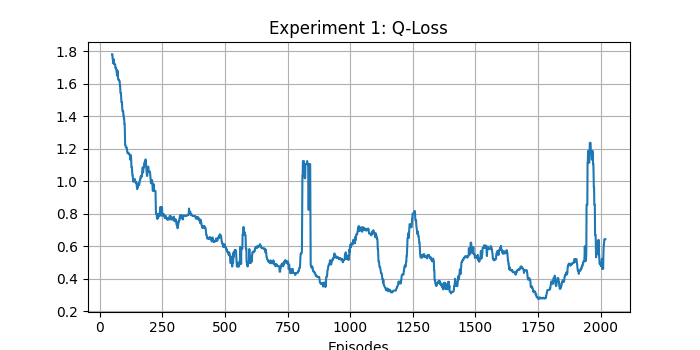
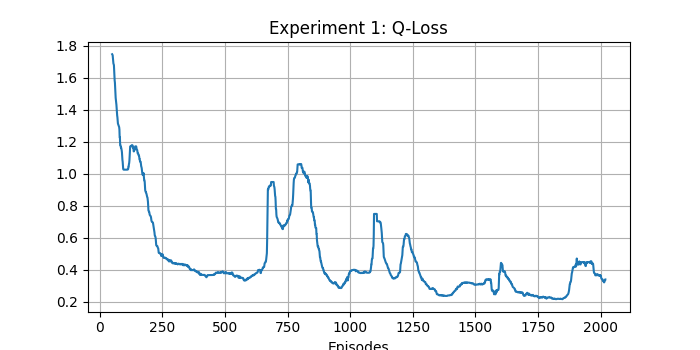
new reward function

diff --git a/utils/rewards.py b/utils/rewards.py
@@ -8,6 +8,7 @@ from envs.market_env.constants import (
     REWARD_TYPE_OPPORTUNITY_COST,
     REWARD_TYPE_SUPPLY_EXPOSURE,
     REWARD_TYPE_OPPORTUNITY_SUPPLY_EXPOSURE,
+    REWARD_TYPE_OPPORTUNITY_SUPPLY,
     REWARD_TYPE_BORROW_EXPOSURE,
     REWARD_TYPE_OPPORTUNITY_BORROW_EXPOSURE,
     REWARD_CONSTANT_OPPORTUNITY_ALPHA,
@@ -18,11 +19,11 @@ from envs.market_env.constants import (
 
 
 def reward_function(
-    agent_id: int,
-    agent_action: Tuple,
-    reward_type: List[Tuple],
-    env,
-    illegal_action: bool,
+        agent_id: int,
+        agent_action: Tuple,
+        reward_type: List[Tuple],
+        env,
+        illegal_action: bool,
 ) -> float:
     """
 
@@ -49,10 +50,10 @@ def reward_function(
 
 
 def reward_function_by_type(
-    agent_id: int,
-    agent_action: Tuple,
-    reward_type: str,
-    env,
+        agent_id: int,
+        agent_action: Tuple,
+        reward_type: str,
+        env,
 ) -> float:
     """
     Supported reward_types:
@@ -81,6 +82,8 @@ def reward_function_by_type(
         return borrow_exposure(env, agent_id, agent_action)
     elif reward_type == REWARD_TYPE_OPPORTUNITY_SUPPLY_EXPOSURE:
         return opportunity_cost_supply_exposure(env, agent_id, agent_action)
+    elif reward_type == REWARD_TYPE_OPPORTUNITY_SUPPLY:
+        return supply_opportunity_cost(env, agent_id, agent_action)
     elif reward_type == REWARD_TYPE_OPPORTUNITY_BORROW_EXPOSURE:
         return opportunity_cost_borrow_exposure(env, agent_id, agent_action)
     else:
@@ -88,8 +91,8 @@ def reward_function_by_type(
 
 
 def protocol_revenue(
-    env,
-    agent_id: int,
+        env,
+        agent_id: int,
 ) -> float:
     """
     Function calculates the lending protocol's revenue by computing the revenue of each plf_pool
@@ -105,8 +108,8 @@ def protocol_revenue(
 
 
 def maximum_exposure(
-    env,
-    agent_id: int,
+        env,
+        agent_id: int,
 ) -> float:
     """
     Function computes the maximum exposure of an agent towards a lending protocol.
@@ -114,15 +117,17 @@ def maximum_exposure(
     """
     total_exposure = 0.0
     for lending_protocol in env.lending_protocol:
-        for agent_id, pool_collateral, pool_loan in list(filter(lambda x: x[0] == agent_id, lending_protocol.borrow_record)):
+        for agent_id, pool_collateral, pool_loan in list(
+                filter(lambda x: x[0] == agent_id, lending_protocol.borrow_record)):
             for borrow_hash, _ in lending_protocol.borrow_record[(agent_id, pool_collateral, pool_loan)]:
-                total_exposure += lending_protocol.plf_pools[pool_loan].get_borrow(borrow_hash) * lending_protocol.plf_pools[pool_loan].get_token_price()
+                total_exposure += lending_protocol.plf_pools[pool_loan].get_borrow(borrow_hash) * \
+                                  lending_protocol.plf_pools[pool_loan].get_token_price()
     return total_exposure
 
 
 def profit(
-    env,
-    agent_id: int,
+        env,
+        agent_id: int,
 ) -> float:
     """
     Function rewards the profit of an agent.
@@ -136,10 +141,10 @@ def profit(
 
 
 def opportunity_cost(
-    env,
-    agent_id: int,
-    alpha: float = REWARD_CONSTANT_OPPORTUNITY_ALPHA,
-    beta: float = REWARD_CONSTANT_OPPORTUNITY_BETA
+        env,
+        agent_id: int,
+        alpha: float = REWARD_CONSTANT_OPPORTUNITY_ALPHA,
+        beta: float = REWARD_CONSTANT_OPPORTUNITY_BETA
 ) -> float:
     """
     Function computes the opportunity cost of the agent's investments.
@@ -151,12 +156,12 @@ def opportunity_cost(
         [token.get_supply_interest_rate() for token in env.market.tokens.values()]
     )
     borrow_pools = (
-        [(pool.borrow_interest_rate, pool.collateral_factor)
-         for lp in env.lending_protocol for pool in lp.plf_pools] +
-        [(token.get_borrow_interest_rate(), token.get_collateral_factor())
-         for token in env.market.tokens.values()]
+            [(pool.borrow_interest_rate, pool.collateral_factor)
+             for lp in env.lending_protocol for pool in lp.plf_pools] +
+            [(token.get_borrow_interest_rate(), token.get_collateral_factor())
+             for token in env.market.tokens.values()]
     )
-    borrow_pools_ratios = [alpha * bir + beta * 1/cf for bir, cf in borrow_pools]
+    borrow_pools_ratios = [alpha * bir + beta * 1 / cf for bir, cf in borrow_pools]
     best_borrow_pool = borrow_pools[borrow_pools_ratios.index(min(borrow_pools_ratios))]
 
     opportunity_value = 0
@@ -169,25 +174,27 @@ def opportunity_cost(
                 opportunity_ratio = lending_protocol.plf_pools[pool_supply].supply_interest_rate - best_supply_pool
                 opportunity_value += supply_amount * supply_price * opportunity_ratio
         # Check for borrow opportunity cost
-        for agent_id, pool_collateral, pool_loan in list(filter(lambda x: x[0] == agent_id, lending_protocol.borrow_record)):
+        for agent_id, pool_collateral, pool_loan in list(
+                filter(lambda x: x[0] == agent_id, lending_protocol.borrow_record)):
             for borrow_hash, borrow_amount in lending_protocol.borrow_record[(agent_id, pool_collateral, pool_loan)]:
                 # borrow_amount = lending_protocol.plf_pools[pool_collateral].get_borrow(borrow_hash)
                 borrow_price = lending_protocol.plf_pools[pool_collateral].get_token_price()
                 ratio = 0
                 if lending_protocol.plf_pools[pool_collateral].collateral_factor - best_borrow_pool[1] != 0:
-                    ratio = 1/(lending_protocol.plf_pools[pool_collateral].collateral_factor - best_borrow_pool[1])
-                opportunity_ratio = alpha * (best_borrow_pool[0] - lending_protocol.plf_pools[pool_collateral].borrow_interest_rate) + \
+                    ratio = 1 / (lending_protocol.plf_pools[pool_collateral].collateral_factor - best_borrow_pool[1])
+                opportunity_ratio = alpha * (
+                            best_borrow_pool[0] - lending_protocol.plf_pools[pool_collateral].borrow_interest_rate) + \
                                     beta * ratio
                 opportunity_value += borrow_amount * borrow_price * opportunity_ratio
     return opportunity_value
 
 
 def supply_exposure(
-    env,
-    agent_id: int,
-    agent_action: Tuple,
-    lending_protocol_id: int = REWARD_CONSTANT_SUPPLY_LP_ID,
-    plf_pool_id: int = REWARD_CONSTANT_SUPPLY_PLF_ID,
+        env,
+        agent_id: int,
+        agent_action: Tuple,
+        lending_protocol_id: int = REWARD_CONSTANT_SUPPLY_LP_ID,
+        plf_pool_id: int = REWARD_CONSTANT_SUPPLY_PLF_ID,
 ) -> float:
     """
     The function rewards the immediate action of the agent by
@@ -210,11 +217,11 @@ def supply_exposure(
 
 
 def borrow_exposure(
-    env,
-    agent_id: int,
-    agent_action: Tuple,
-    lending_protocol_id: int = REWARD_CONSTANT_SUPPLY_LP_ID,
-    plf_pool_id: int = REWARD_CONSTANT_SUPPLY_PLF_ID,
+        env,
+        agent_id: int,
+        agent_action: Tuple,
+        lending_protocol_id: int = REWARD_CONSTANT_SUPPLY_LP_ID,
+        plf_pool_id: int = REWARD_CONSTANT_SUPPLY_PLF_ID,
 ) -> float:
     """
     The function rewards the immediate action of the agent by
@@ -236,11 +243,11 @@ def borrow_exposure(
 
 
 def opportunity_cost_supply_exposure(
-    env,
-    agent_id: int,
-    agent_action: Tuple,
-    lending_protocol_id: int = REWARD_CONSTANT_SUPPLY_LP_ID,
-    plf_pool_id: int = REWARD_CONSTANT_SUPPLY_PLF_ID,
+        env,
+        agent_id: int,
+        agent_action: Tuple,
+        lending_protocol_id: int = REWARD_CONSTANT_SUPPLY_LP_ID,
+        plf_pool_id: int = REWARD_CONSTANT_SUPPLY_PLF_ID,
 ) -> float:
     """
     Function rewards exposure to a specific supply pool of a specific protocol
@@ -251,9 +258,9 @@ def opportunity_cost_supply_exposure(
 
     # Reward is positive, if the agent deposits funds into correct pool
     if not ((action_id == 1 and
-            idx_lp == lending_protocol_id and
-            idx_from is None and
-            idx_to == plf_pool_id) or (action_id == 0)):
+             idx_lp == lending_protocol_id and
+             idx_from is None and
+             idx_to == plf_pool_id) or (action_id == 0)):
         return REWARD_ILLEGAL_ACTION
 
     best_interest_rate = max(
@@ -280,12 +287,42 @@ def opportunity_cost_supply_exposure(
     return plf_pool.get_supply(supply_hash) * plf_pool.get_token_price() * opportunity_diff
 
 
+def supply_opportunity_cost(
+        env,
+        agent_id: int,
+        agent_action: Tuple,
+) -> float:
+    assert len(agent_action) == 4, "Agent type is incorrect!"
+    action_id, idx_lp, idx_from, idx_to = agent_action
+
+    if not (action_id == 0 or action_id == 1):
+        return REWARD_ILLEGAL_ACTION
+
+    best_pool_interest_rate = max([plf_pool.suppy_interest_rate for lp in env.lending_protocol for plf_pool in lp.plf_pools])
+    best_market_interest_rate = max([token.supply_interest_rate for token in env.market.tokens.values()])
+    best_interest_rate = max([best_pool_interest_rate, best_market_interest_rate])
+
+    # If all supply interest rate are lower than the market -> do not supply
+    if best_pool_interest_rate < best_market_interest_rate and action_id == 0:
+        return 100
+
+    # Best interest rate is provided by a pool
+    lending_protocol = env.lending_protocol[idx_lp]
+    plf_pool = lending_protocol.plf_pools[idx_to]
+    opportunity_diff = plf_pool.supply_interest_rate - best_interest_rate
+    supply_hash, _ = lending_protocol.supply_record[agent_id, idx_to][-1]
+    # If the picked lending pool offers the best interest rate -> use borrow exposure instead
+    if opportunity_diff == 0:
+        opportunity_diff = 1
+    return plf_pool.get_supply(supply_hash) * plf_pool.get_token_price() * opportunity_diff
+
+
 def opportunity_cost_borrow_exposure(
-    env,
-    agent_id: int,
-    agent_action: Tuple,
-    lending_protocol_id: int = REWARD_CONSTANT_SUPPLY_LP_ID,
-    plf_pool_id: int = REWARD_CONSTANT_SUPPLY_PLF_ID,
+        env,
+        agent_id: int,
+        agent_action: Tuple,
+        lending_protocol_id: int = REWARD_CONSTANT_SUPPLY_LP_ID,
+        plf_pool_id: int = REWARD_CONSTANT_SUPPLY_PLF_ID,
 ) -> float:
     """
     Function rewards exposure to a specific borrow pool of a specific protocol

diff --git a/analysis/analyze.py b/analysis/analyze.py
@@ -96,7 +96,7 @@ def main(config):
             data=ep_data[:config.episode_length],
             columns=[f'agent{i}/'+s for s in state_mapping]
         )
-        tmp[f'reward/agent_{i}'] = replay_buffer.rew_buffs[i][config.episode_length:2*config.episode_length]
+        tmp[f'reward/agent_{i}'] = replay_buffer.rew_buffs[i][:config.episode_length]
         tmp[f'action/agent_{i}'] = np.argmax(replay_buffer.ac_buffs[i][:config.episode_length], axis=1)
         data_list.append(tmp)
     df = pd.concat(data_list).fillna(0)

diff --git a/envs/market_env/constants.py b/envs/market_env/constants.py
@@ -159,6 +159,7 @@ REWARD_TYPE_COMPOSITE_REWARD = "composite_reward"
 REWARD_TYPE_OPPORTUNITY_COST = "opportunity_cost"
 REWARD_TYPE_SUPPLY_EXPOSURE = "supply_exposure"
 REWARD_TYPE_OPPORTUNITY_SUPPLY_EXPOSURE = "opportunity_cost_supply_exposure"
+REWARD_TYPE_OPPORTUNITY_SUPPLY = "supply_opportunity_cost"
 REWARD_TYPE_BORROW_EXPOSURE = "borrow_exposure"
 REWARD_TYPE_OPPORTUNITY_BORROW_EXPOSURE = "opportunity_cost_borrow_exposure"
 
